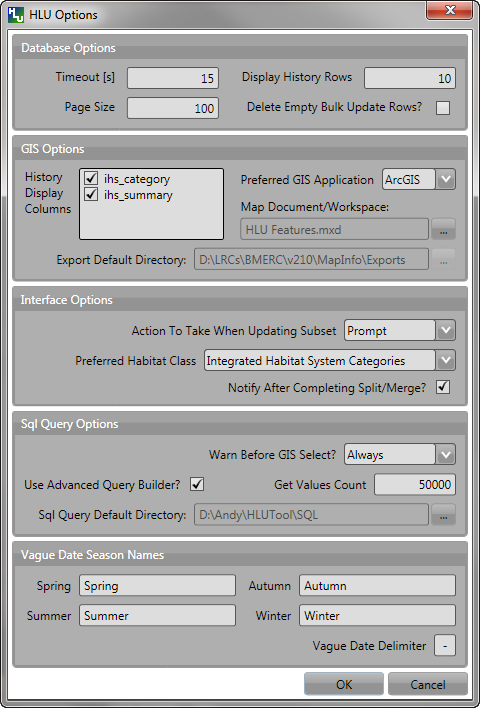
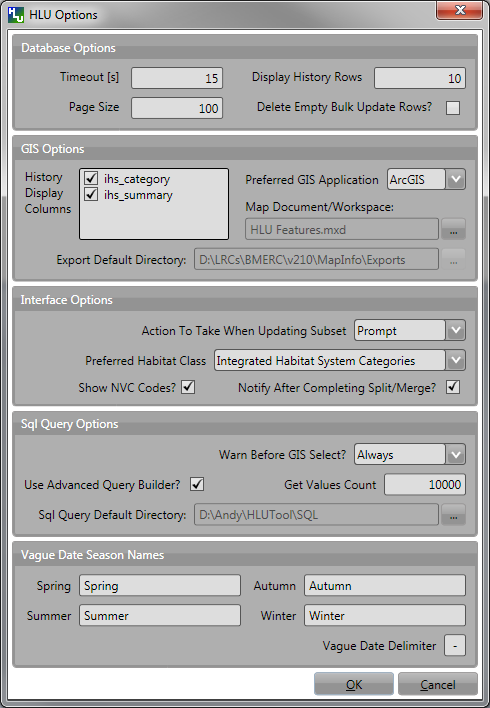
Updates for release v2.4.0
Updates for release v2.4.0 to the Habitats tab and options dialog.

diff --git a/conf.py b/conf.py
@@ -50,16 +50,16 @@ master_doc = 'index'
 
 # General information about the project.
 project = u'HLU Tool User Guide'
-copyright = u'2011 HBIC, 2013-14 TVERC, 2014-15 SxBRC'
+copyright = u'2011 HBIC, 2013-14, 2016 TVERC, 2014-15 SxBRC'
 
 # The version info for the project you're documenting, acts as replacement for
 # |version| and |release|, also used in various other places throughout the
 # built documents.
 #
 # The short X.Y version.
-version = '2.3'
+version = '2.4'
 # The full version, including alpha/beta/rc tags.
-release = '2.3.3'
+release = '2.4.0'
 
 # The language for content autogenerated by Sphinx. Refer to documentation
 # for a list of supported languages.

diff --git a/interface/interface.rst b/interface/interface.rst
@@ -105,20 +105,20 @@ This section also contains the :guilabel:`Apply` button which is used to apply a
 
 	\newpage
 
-.. _ihs_tab:
+.. _habitats_tab:
 
-IHS Tab
--------
+Habitats Tab
+------------
 
-The IHS tab displays the Integrated Habitat System (IHS) details for the current database record as shown in the figure :ref:`figUIIT`.
+The Habitats tab displays the Integrated Habitat System (IHS) and legacy habitat details for the current database record as shown in the figure :ref:`figUIHT`.
 
-.. _figUIIT:
+.. _figUHIT:
 
-.. figure:: figures/UserInterfaceIHSTab.png
+.. figure:: figures/UserInterfaceHabitatTab.png
 	:align: center
 	:scale: 85
 
-	Main window - IHS Tab
+	Main window - Habitats Tab
 
 
 Class
@@ -136,6 +136,9 @@ Type
 Habitat
 	Drop-down list allowing users to select the desired IHS Habitat code. The contents of the list will vary and relate directly to the selected Class and Type (above) and entries in the lut_habitat_type_ihs_habitat table.
 
+NVC Codes
+	[Read only]. Automatically displays a list of any potential NVC Codes related to the IHS habitat codes selected in the preceding drop-down list.
+
 IHS Matrix / Formation / Management / Complex
 	Drop-down lists allowing users to refine the habitat definition by adding 'multiplex' codes according to the guidelines of IHS.
 
@@ -143,7 +146,7 @@ IHS Summary
 	[Read only]. Automatically generated concatenation of the IHS habitat and multiplex codes selected from the preceding drop-down lists.
 
 Legacy Habitat
-	[Read only]. Displays the primary 'pre-IHS' habitat code (if present).
+	Drop-down list allowing users to view and maintain a legacy habitat definition (if required). The contents of the list are based on entries in the lut_legacy_habitat table.
 
 .. [6] The habitat 'Class' and 'Type' list contents are based only on entries in the relevant lookup tables where the 'is_local' flag is set to True (-1). See 'Lookup Tables' in the `HLUTool-TechnicalGuide <https://readthedocs.org/projects/hlutool-technicalguide/>`_ for details of how to update lookup table entries.
 
@@ -167,7 +170,7 @@ Click on :guilabel:`Details` to display the Details tab as shown in the figure :
 	Main window - Details Tab
 
 Priority Habitats
-	Automatically added based upon the Habitat and multiplex codes selected on the :ref:`ihs_tab`. For new priority habitats, 'Determination Quality' and 'Interpretation Quality' must be entered.
+	Automatically added based upon the Habitat and multiplex codes selected on the :ref:`habitats_tab`. For new priority habitats, 'Determination Quality' and 'Interpretation Quality' must be entered.
 
 Potential Priority Habitats
 	Allows users to define other priority habitats that may also be present in the future given appropriate management or restoration. An INCID may have a potential priority habitat even if no priority habitats are present.
@@ -312,7 +315,7 @@ To perform a bulk update:
 
 * The 'Bulk Update' section displays the number of INCIDs, TOIDs and fragments affected by the update and allows users to select whether to create a History record for this process.
 
-* Enter the updated details in the IHS, Details, and Sources tabs, then click :guilabel:`Apply`. These fields will be updated for all the selected INCIDs.
+* Enter the updated details in the Habitats, Details, and Sources tabs, then click :guilabel:`Apply`. These fields will be updated for all the selected INCIDs.
 
 .. caution::
 	If 'Delete Empty Bulk Update Rows' is checked in the Options, child records will be deleted if these fields are not completed in the bulk update form. See :ref:`database_options` for more details.
@@ -419,7 +422,10 @@ Action to Take When Updating Subset
 		* All - Always apply the attribute update to **all** features belonging to the INCID regardless of which features of the INCID are currently selected.
 
 Preferred Habitat Class
-	Allows the user to choose which Habitat Class in the INCID tab (see :ref:`ihs_tab` for more details) is automatically selected each time the HLU Tool is started.
+	Allows the user to choose which Habitat Class in the INCID tab (see :ref:`Habitats_tab` for more details) is automatically selected each time the HLU Tool is started.
+
+Show NVC Codes
+	Allows the user to choose if a list of any potential NVC Codes related to the selected IHS habitat code will be shown.
 
 Notify After Completing Split/Merge?
 	Enable users to specify if a pop-up message should be displayed following the completion of any of the split or merge operations.

diff --git a/menus/menus.rst b/menus/menus.rst
@@ -336,14 +336,15 @@ Allows users to switch between valid HLU layers in the GIS application.
 Styles
 ------
 
-Allows the user to select one of three user interface styles for all interfaces and windows:
+Allows the user to select one of the user interface styles for all interfaces and windows:
 
 * Original
 * Light Grey
 * Dark Grey
+* Shiny Blue
 
 About
 -----
 
-Displays the current application and database versions of the HLU Tool, the current user's id and name, and the HLU Tool's copyright statements.
+Displays the current application and database versions of the HLU Tool, the current database connection, the current user's id and name, and the HLU Tool's copyright statements.
 

diff --git a/glossary/glossary.rst b/glossary/glossary.rst
@@ -46,6 +46,9 @@ Glossary
 	Interpretation Quality
 		A combination of the assessment of the quality and age of the original source habitat identification and the relationship between the original habitat type and the priority habitat type. See :ref:`interpretation_quality` for more details.
 
+	Legacy Habitat
+		A code and/or descriptive term that best represents an area of habitat using an alternative (legacy) habitat classification system (e.g. 'B312', 'CG2', 'Lowland Calcareous Grassland').
+
 	Logical Merge
 		Combines all the attributes for the features selected in the GIS into a single INCID record of one of the selected features. See :ref:`logical_merge` for more details.
 
